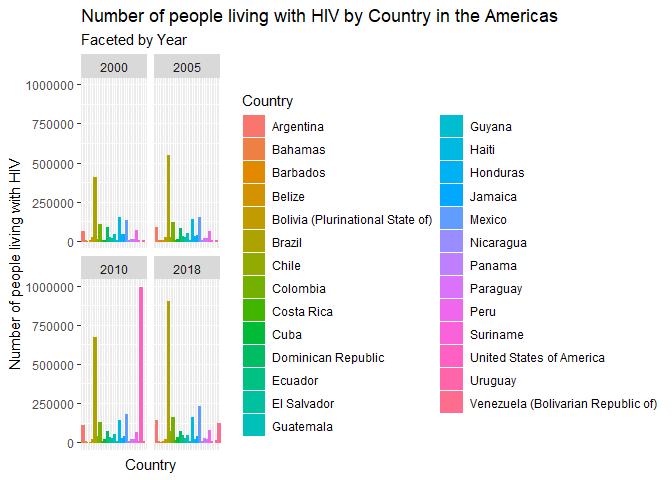
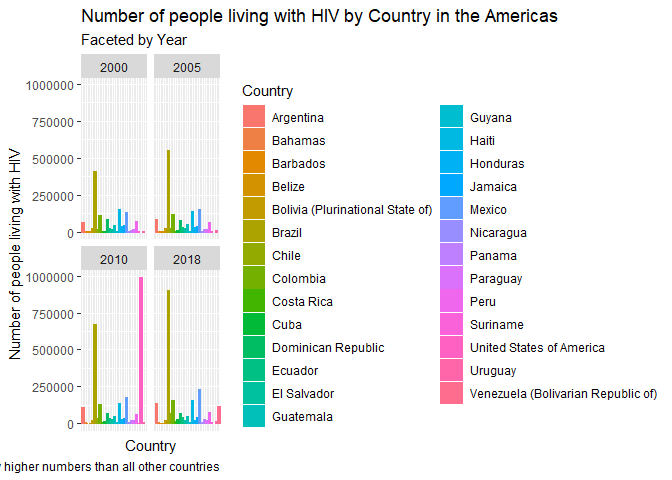
Adding caption

Changed region(s): [[0.0, 0.1562, 1.0, 1.0], [0.0312, 0.25, 0.125, 0.2812]]

diff --git a/earnold-assignment2.md b/earnold-assignment2.md
@@ -67,7 +67,10 @@ ggplot(., mapping = aes(x = year, y = people, color = Region))+
   scale_y_log10()+
    xlab("Year")+
    ylab("Number of people living with HIV")+
-  ggtitle("Number of people living with HIV by year")
+  ggtitle("Number of people living with HIV by year")+
+  labs(
+   caption = "Shows the number of people living with HIV broken out by region, over the course of 18 years. Africa shows notably higher numbers than all other regions."
+  )
 ```
 
 ![](earnold-assignment2_files/figure-markdown_github/create%20visualization-1.png)
@@ -92,7 +95,8 @@ ggplot(., mapping = aes(x = Country, y = people, color = Country))+
   ylab("Number of people living with HIV")+
   ggtitle("Number of people living with HIV by Country in the Americas", subtitle = "Faceted by Year")+
   theme(axis.text.x=element_blank(),
-        axis.ticks.x=element_blank())
+        axis.ticks.x=element_blank())+
+  labs(caption = "Shows the number of people living with HIV broken out by country within the Americas region, over the course of 18 years. Brazil shows notably higher numbers than all other countries")
 ```
 
 ![](earnold-assignment2_files/figure-markdown_github/create%20visualization%202-1.png)
